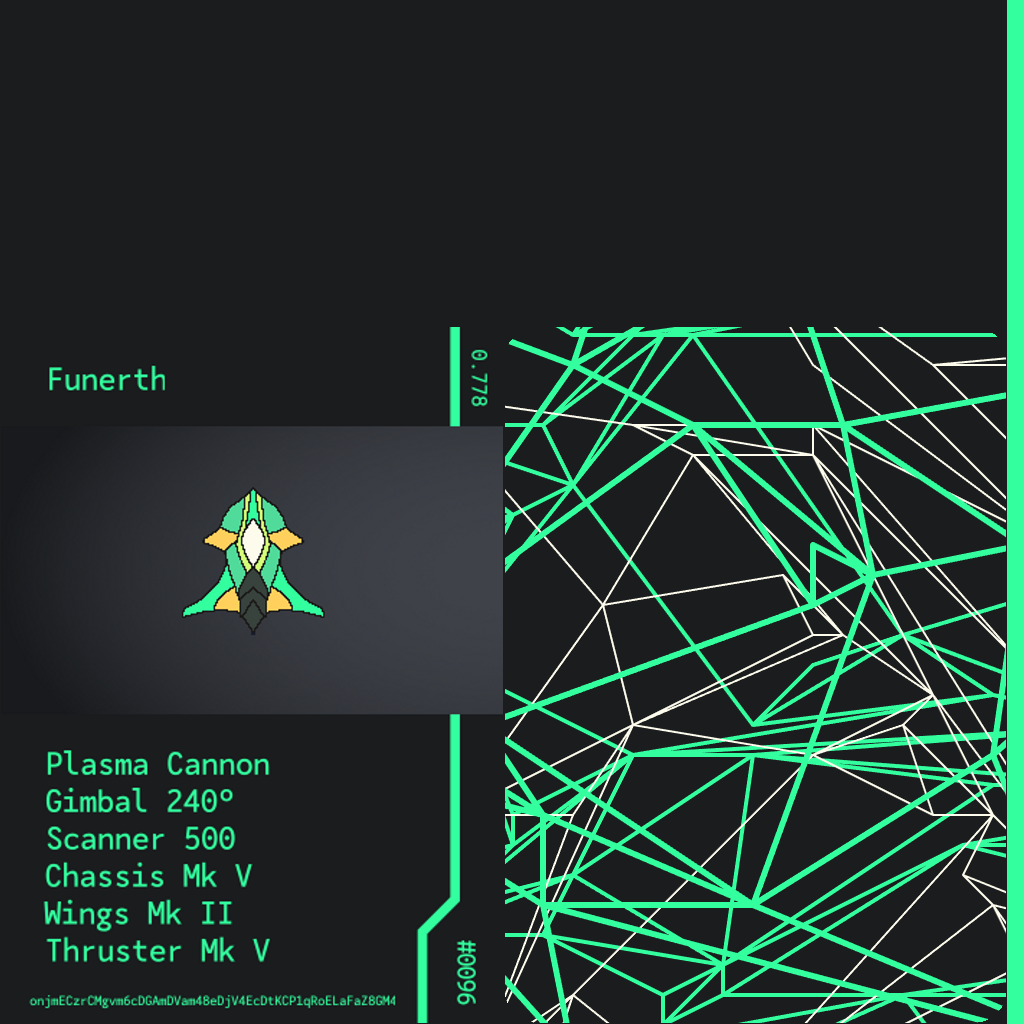
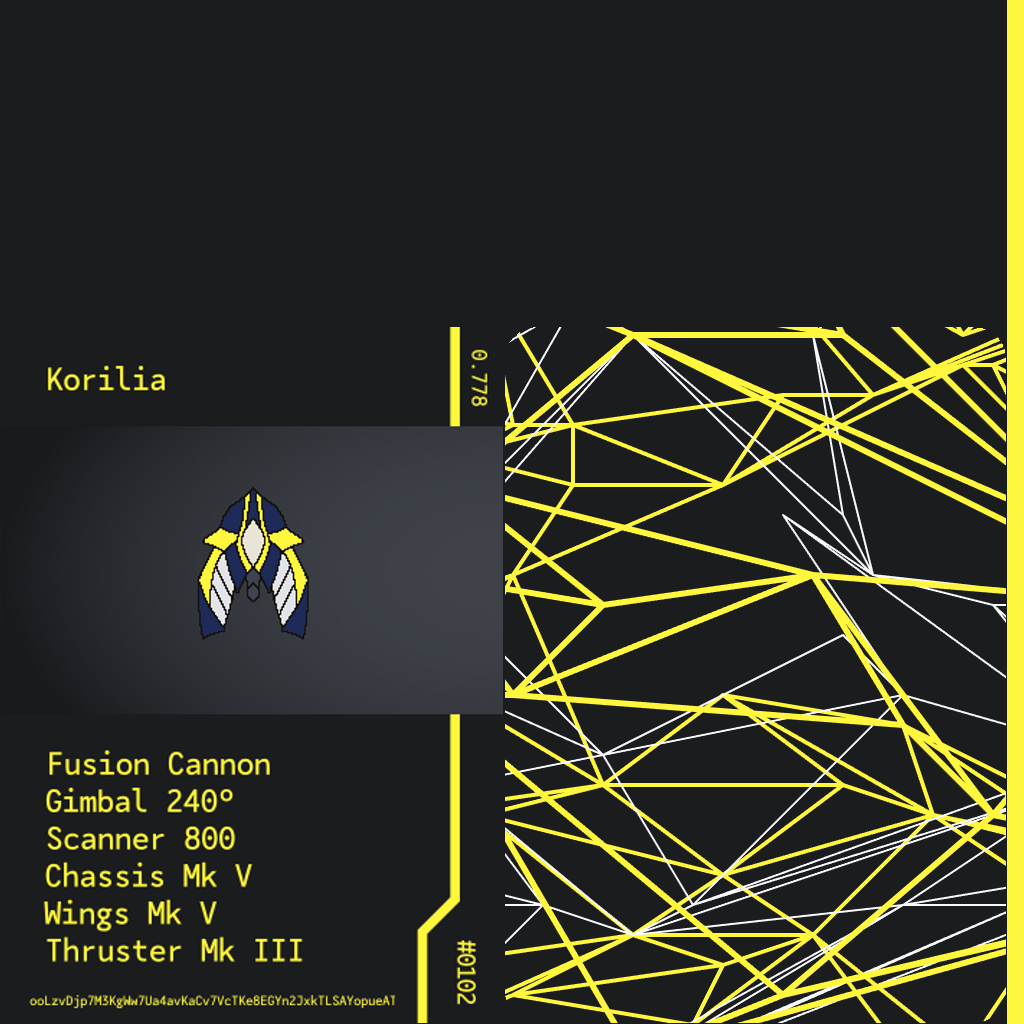
Add latest

diff --git a/index.js b/index.js
@@ -12,6 +12,7 @@ import sharp from 'sharp';
 import fs from 'fs';
 import util from 'util';
 import { exec } from 'child_process';
+import { v4 as uuidv4 } from 'uuid';
 
 const execAsync = util.promisify(exec);
 
@@ -320,6 +321,26 @@ async function generateAllSquadrons(seeds) {
     //         .map(s => ({id: s.id, seed: s.seed, value: s.value, leader: s.leader})),
     //     )};
     // export default ${name}Queue;`);
+}
+
+async function generateEnemySquadronData(n) {
+    const enemyDronesPath = path.join('dist', 'enemy-drones');
+    const enemies = []
+    for(let i = 0; i < n; i++) {
+        const seed = uuidv4();
+        seedrandom(seed, {global: true});
+        const colour = ~~(Math.random() * 6);
+        const drones = generateDroneStats(colour);
+        const squadron = createSquadronData(i, seed, drones, colour);
+        enemies.push(squadron)
+        fs.writeFileSync(path.join(enemyDronesPath, `${seed}.json`), JSON.stringify(squadron));
+    }
+    fs.writeFileSync(path.join(enemyDronesPath, `enemy-queue.js`),
+        `const enemyQueue = ${JSON.stringify(enemies
+            .sort((a, b) => a.value - b.value)
+            .map(s => ({id: s.id, seed: s.seed, value: s.value, leader: s.leader})),
+        )};
+    export default enemyQueue;`);
 }
 
 async function generateStats(seeds) {
@@ -832,16 +853,45 @@ const allSeeds = [
         seed: 'oogyCfJTKDrf71ZomEE5os8GMz7mrRjT5YfKRPQMHgqP851Q7ga',
         walletId: 'tz1dghi1QtW2ATgLjWEw6agacKXQifkZSNA3',
         edition: 95
+    },
+    {
+        seed: 'onjmECzrCMgvm6cDGAmDVam48eDjV4EcDtKCP1qRoELaFaZ8GM4',
+        walletId: 'tz1YxmRHQRy1WVbo1k5ZaG7iuEqPowLkBKqi',
+        edition: 96
+    },
+    {
+        seed: 'ooSh3oE4bdJrecY9pdQFv1J3AnW5PKNVWph7m312TEYuJ8KjLrK',
+        walletId: 'tz1R53ECSBpkmcXLtxJxvuvM7KoqETHimHRf',
+        edition: 97
+    },
+    {
+        seed: 'ooePFfiDao4ingVYXLo713LkByaXsxcVVfvCssDD6MeUGvWTcW5',
+        walletId: 'tz1dd2tmTJFRJh8ycLuZeMpKLquJYkMypu2Q',
+        edition: 98
+    },
+    {
+        seed: 'oohPMM5wqKxFg4CMmgn5XCthTebPQ71n6kspKSrRRsmnGN9nhBx',
+        walletId: 'tz1McVAjR9YULDNWTUpSKtutjYCWzfKFF7h9',
+        edition: 99
+    },
+    {
+        seed: 'oosTNuxQw6uCSbHjdSKAjnmkNVpMhVZbwBXGapQ1wYMY5ziR2VZ',
+        walletId: 'tz1PqooZUtCQqP539PmMzUWHtaUX6EQtFY5S',
+        edition: 100
     }
 ];
 
 const currentSeeds = [
     {
-        seed: 'onjmECzrCMgvm6cDGAmDVam48eDjV4EcDtKCP1qRoELaFaZ8GM4',
-        walletId: 'tz1YxmRHQRy1WVbo1k5ZaG7iuEqPowLkBKqi',
-        edition: 96
+        seed: 'oozeUb3px2aG618HWQqjfGqRpwMxjzvGrSgK5D5Qidwtkvivo8x',
+        walletId: 'tz1esEY2yNUNAFnescGecqbiEjuB7W5uvJNE',
+        edition: 101
+    },
+    {
+        seed: 'ooLzvDjp7M3KgWw7Ua4avKaCv7VcTKe8EGYn2JxkTLSAYopueAT',
+        walletId: 'tz1d4nw6znAeP9ovjdvTJEN6t88ai6b912QU',
+        edition: 102
     }
-
 ];
 
 const distPath = 'dist';
@@ -852,6 +902,6 @@ await generateAllSquadrons(currentSeeds);
 // Note: Stats Only
 // await generateStats(allSeeds);
 // Note: Enemies
-// await generateAllSquadrons(new Array(100).fill().map(() => uuidv4()), path.join(distPath, 'enemy-drones'), 'enemy');
+await generateEnemySquadronData(10);
 // Note: Test Only
 // await generateAllSquadrons(testSeeds, 'player');

diff --git a/get-burns.js b/get-burns.js
@@ -25,6 +25,6 @@ const getBurns = async(objktId) => {
 const burns = await getBurns(103271);
 await new ObjectsToCsv(burns).toDisk(path.join('csv', `burns.csv`));
 
-console.log(burns);
+console.log(burns.slice(-30));
 console.log('BURNS:', burns.length);
 
